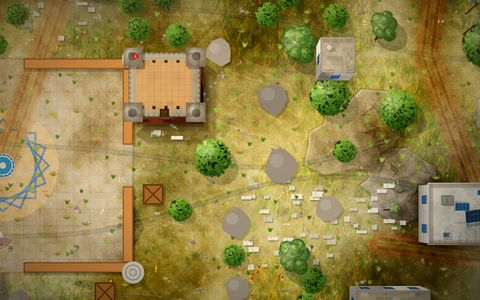
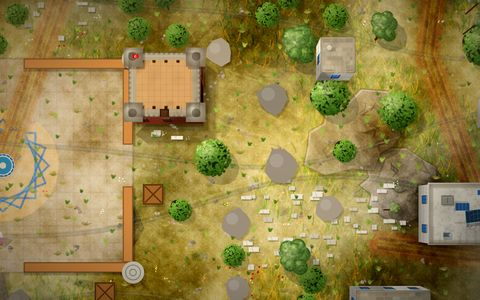
v2.34: radio avec le prénom du joueur, panneaux des lieux, arrivée dans un lieu, dunes du Sahara, image plus claire
Claude-Session: https://claude.ai/code/session_0193LcvPZAK4DPuHintVfdCC

diff --git a/index.html b/index.html
@@ -1056,7 +1056,7 @@ body.sf3d-battle #sf3dBattle{display:block}body.sf3d-battle #game{visibility:hid
       <p>Taille, opacité et hauteur s'appliquent aux boutons Tirer, Pistolet et actions. La sensibilité règle la course du pouce de visée.</p>
       <div class="row"><button id="qBtn" class="ghost">Qualité : Haute</button><button id="diffBtn" class="ghost">Difficulté : Normale</button><button id="vibBtn" class="ghost">Vibration : activée</button><button id="leftyBtn" class="ghost">Gaucher : non</button><button id="aimBtn" class="ghost">Ligne de visée : courte</button><button id="miniBtn" class="ghost">Mini-carte : normale</button><button id="camBtn" class="ghost">Caméra : cinématique</button><button id="afBtn" class="ghost">Tir auto : non</button><button id="numBtn" class="ghost">Chiffres de dégâts : oui</button><button id="bloodBtn" class="ghost">Sang : oui</button><button id="fpsBtn" class="ghost">Compteur i/s : non</button><button id="oReset" class="ghost">Réinitialiser</button><button id="oTuto" class="ghost">Revoir le tutoriel</button></div>
     </div>
-    <p id="sfVer" style="margin:0;text-align:center;font-size:11px;letter-spacing:.14em;opacity:.55">SEDDIK FIRE · 2.33</p>
+    <p id="sfVer" style="margin:0;text-align:center;font-size:11px;letter-spacing:.14em;opacity:.55">SEDDIK FIRE · 2.34</p>
     <button id="oClose" class="cta">Terminé</button>
   </div>
 </section>
@@ -1741,7 +1741,7 @@ const PLANS={
  gafsa:{cst:[3720,0,1,0,0,1,0,0,1,0],wat:[],lake:[2600,1950,70],
   p:[[2500,1800],[1350,1400],[500,700],[700,1700],[900,2400],[1500,2600],[3000,2500],[2900,700]],
   f:[['medina',2450,1750,480,380,'stone'],['oasis',2700,2050,260],['mine',1350,1400],['mine',500,700],['mine',700,1750],['mine',900,2400],['mountain',1500,2650,360],['oasis',3000,2500,240],['village',2900,700,6],['base',2000,800]]}};
-function planInit(P){MAP.cst=P.cst;MAP.wat=P.wat||[];MAP.isl=P.isl||[];if(P.lake){LAKE.x=P.lake[0];LAKE.y=P.lake[1];LAKE.r=P.lake[2]}LX.mc=[-2000,-2000];LX.heli=[-2000,-2000];PIER.y=-900;PIER.x=-900}
+function planInit(P){MAP.dunes=[];MAP.cst=P.cst;MAP.wat=P.wat||[];MAP.isl=P.isl||[];if(P.lake){LAKE.x=P.lake[0];LAKE.y=P.lake[1];LAKE.r=P.lake[2]}LX.mc=[-2000,-2000];LX.heli=[-2000,-2000];PIER.y=-900;PIER.x=-900}
 function waterAt(x,y){const M=MAP;if(M&&M.isl)for(const e of M.isl)if(((x-e.x)/e.rx)**2+((y-e.y)/e.ry)**2<1)return false;if(M&&M.wat)for(const e of M.wat)if(((x-e.x)/e.rx)**2+((y-e.y)/e.ry)**2<1)return true;return false}
 function buildPlan(P){planInit(P);PAVED.length=0;const grz=[];
   const X=(x,y)=>x<0?coastX(y)+x:x;const rnd=(a,b)=>sr(a,b);
@@ -1784,7 +1784,7 @@ function buildPlan(P){planInit(P);PAVED.length=0;const grz=[];
    ruins(x,y,kind){x=X(x,y);PAVED.push({x:x-170,y:y-130,w:340,h:260,c:kind==='tomb'?'#e9e4d8':'#cbbd9c',g:30});for(let i=0;i<5;i++)for(let j=0;j<2;j++){const px=x-130+i*65,py=y-70+j*140;if(SR()<.25)continue;addRock(px,py,kind==='tomb'?9:rnd(10,15))}occ.push({x,y,r:150})},
    mine(x,y){x=X(x,y);[x,y]=spot(x,y,540,420);PAVED.push({x:x-260,y:y-200,w:520,h:400,c:'#8f8c85',g:60});bld(x-240,y-180,260,170,'port',[['s',.5],['e',.5]],{label:'PHOSPHATE'});bld(x+40,y-180,180,130,'port',[['s',.5]],{label:'CPG'});
      for(let i=0;i<5;i++)addRock(x-200+i*95,y+110,rnd(28,40));addSolid({t:'c',x:x+160,y:y+60,r:40,k:'silo'})},
-   dunes(x,y,r){occ.push({x,y,r})},
+   dunes(x,y,r){occ.push({x,y,r});MAP.dunes.push([x,y,r])},
    salt(x,y){for(let i=0;i<3;i++)for(let j=0;j<2;j++)MAP.wat.push({x:x-220+i*220,y:y-100+j*200,rx:95,ry:80,col:SALT,sh:SALTSH})},
    light(x,y){x=X(x,y);bld(x-60,y-60,120,120,'med',[['w',.5],['s',.5]],{lh:1})}};
   // ports d'abord (la jetée), puis le reste
@@ -1807,7 +1807,15 @@ function buildPlan(P){planInit(P);PAVED.length=0;const grz=[];
   place(45,()=>24,(x,y)=>crate(x-22,y-22),()=>[sr(100,WS-100),sr(100,WS-100)]);
   finishWorld()}
 // dessin des plans d'eau et des îlots dans le sol
-function drawWaterX(c){const M=MAP;if(!M.wat&&!M.isl)return;
+function drawWaterX(c){const M=MAP;
+  if(M.dunes&&M.dunes.length){const lit=shadeHex(M.base,.2),lit2=shadeHex(M.base,.32),slip=shadeHex(M.base,-.2),R=mulberry32(5150);
+    for(const [dx,dy,dr] of M.dunes){const n=Math.round(dr*dr/7000);for(let i=0;i<n;i++){const a=R()*TAU,d=Math.sqrt(R())*dr,x=dx+Math.cos(a)*d,y=dy+Math.sin(a)*d,sz=60+R()*110,rot=(R()-.5)*.5;c.save();c.translate(x,y);c.rotate(rot);
+      c.fillStyle='rgba(60,35,10,.16)';c.beginPath();c.ellipse(sz*.28,sz*.08,sz*.62,sz*.42,0,0,TAU);c.fill();
+      const g=c.createLinearGradient(-sz*.6,-sz*.4,sz*.4,sz*.3);g.addColorStop(0,lit2);g.addColorStop(.6,lit);g.addColorStop(1,M.base);c.fillStyle=g;c.beginPath();c.moveTo(-sz*.6,0);c.quadraticCurveTo(-sz*.3,-sz*.55,sz*.35,-sz*.48);c.quadraticCurveTo(sz*.05,-sz*.15,sz*.12,0);c.quadraticCurveTo(sz*.05,sz*.15,sz*.35,sz*.48);c.quadraticCurveTo(-sz*.3,sz*.55,-sz*.6,0);c.fill();
+      c.fillStyle=slip;c.beginPath();c.moveTo(sz*.35,-sz*.48);c.quadraticCurveTo(sz*.05,-sz*.15,sz*.12,0);c.quadraticCurveTo(sz*.05,sz*.15,sz*.35,sz*.48);c.quadraticCurveTo(sz*.24,0,sz*.35,-sz*.48);c.fill();
+      c.strokeStyle='rgba(255,245,220,.55)';c.lineWidth=2;c.beginPath();c.moveTo(sz*.35,-sz*.48);c.quadraticCurveTo(sz*.05,-sz*.15,sz*.12,0);c.quadraticCurveTo(sz*.05,sz*.15,sz*.35,sz*.48);c.stroke();
+      c.strokeStyle='rgba(120,80,40,.18)';c.lineWidth=1.2;for(let k=-2;k<=2;k++){c.beginPath();c.moveTo(-sz*.45,k*sz*.12);c.quadraticCurveTo(-sz*.2,k*sz*.12-6,0,k*sz*.1);c.stroke()}c.restore()}}}
+  if(!M.wat&&!M.isl)return;
   for(const e of M.wat||[]){const col=e.col||M.sea||['#3fcfc8','#1586a6','#0e5f86'];c.save();c.beginPath();c.ellipse(e.x,e.y,e.rx,e.ry,0,0,TAU);c.lineWidth=Math.min(60,e.rx*.3);c.strokeStyle=e.sh||M.shore||'#e6d3a6';c.stroke();
     const g=c.createRadialGradient(e.x,e.y,Math.min(e.rx,e.ry)*.1,e.x,e.y,Math.max(e.rx,e.ry));g.addColorStop(0,col[2]);g.addColorStop(.55,col[1]);g.addColorStop(1,col[0]);c.fillStyle=g;c.fill();
     if(e.col===SALT){c.clip();c.strokeStyle='rgba(255,255,255,.35)';c.lineWidth=2;const R=mulberry32((e.x*7+e.y)|0);for(let i=0;i<e.rx*e.ry/2500;i++){const x=e.x+(R()-.5)*e.rx*2,y=e.y+(R()-.5)*e.ry*2;c.beginPath();c.moveTo(x,y);c.lineTo(x+R()*30-15,y+R()*30-15);c.stroke()}}
@@ -2171,7 +2179,7 @@ function relief(c){if(MAP.gen==='city')return;const id=MAP.st,N=id==='sahara'?28
   c.clip(land,'evenodd');c.globalCompositeOperation='soft-light';c.globalAlpha=id==='sahara'?.75:.9;c.imageSmoothingEnabled=true;c.drawImage(cv2,0,0,WS,WS);c.restore()}
 /* ===== cache du sol (IndexedDB) : la carte n'est dessinée qu'une fois par appareil ===== */
 const GC={m:new Map(),h:''};
-function gcHash(){if(GC.h)return GC.h;let h=2166136261;try{const src=JSON.stringify(PLANS)+buildPlan.toString()+drawWaterX.toString()+buildGround.toString()+genWorld.toString()+(typeof decoCity==='function'?decoCity.toString():'')+(typeof gradeCanvas==='function'?gradeCanvas.toString():'');for(let i=0;i<src.length;i++){h^=src.charCodeAt(i);h=Math.imul(h,16777619)}}catch(e){}return GC.h=(h>>>0).toString(36)}
+function gcHash(){if(GC.h)return GC.h;let h=2166136261;try{const src='dunes1'+JSON.stringify(PLANS)+buildPlan.toString()+drawWaterX.toString()+buildGround.toString()+genWorld.toString()+(typeof decoCity==='function'?decoCity.toString():'')+(typeof gradeCanvas==='function'?gradeCanvas.toString():'');for(let i=0;i<src.length;i++){h^=src.charCodeAt(i);h=Math.imul(h,16777619)}}catch(e){}return GC.h=(h>>>0).toString(36)}
 function gKey(mid){const gs=stats.quality==='eco'?.55:stats.quality==='mid'?.72:.8;return mid+'|'+gs+'|'+gcHash()}
 function gcDB(){return new Promise((res,rej)=>{try{const r=indexedDB.open('sf-ground',1);r.onupgradeneeded=()=>r.result.createObjectStore('g');r.onsuccess=()=>res(r.result);r.onerror=()=>rej(r.error)}catch(e){rej(e)}})}
 async function gcBundled(k){if(!adsNative())return null;try{const f=k.replace(/\|/g,'_');const jp=fetch('ground/'+f+'.json').then(j=>j.ok?j.json():[]).catch(()=>[]);const r=await fetch('ground/'+f+'.jpg');if(!r.ok)return null;const blob=await r.blob();const lamps=await jp;return {blob,lamps}}catch(e){return null}}
@@ -3313,15 +3321,15 @@ function updateCam(dt){const bz=baseZoom(),CM=stats.camMode||'cine',CINE=CM!=='s
   {const dead=CINE&&!player.alive&&game.mode==='play';if(dead!==!!cam.bars){cam.bars=dead;const el=$('#sfCine');if(el){if(dead){const k=player.killer;el.lastChild.textContent=k&&k!==player?'Éliminé par '+k.name:'Éliminé'}el.classList.toggle('on',dead)}}}
   const kd=Math.exp(-dt*13);cam.kx=(cam.kx||0)*kd;cam.ky=(cam.ky||0)*kd;cam.zp=(cam.zp||0)*Math.exp(-dt*7)}
 function drawWeather(){const wx=MAP.wx;
-  if(wx==='sand'){ctx.fillStyle='rgba(214,172,104,.11)';ctx.fillRect(0,0,VW,VH);
-    const haze=ctx.createLinearGradient(0,VH*.18,0,VH);haze.addColorStop(0,'rgba(229,190,126,0)');haze.addColorStop(.55,'rgba(220,177,111,.055)');haze.addColorStop(1,'rgba(190,143,82,.13)');ctx.fillStyle=haze;ctx.fillRect(0,0,VW,VH);
+  if(wx==='sand'){ctx.fillStyle='rgba(214,172,104,.045)';ctx.fillRect(0,0,VW,VH);
+    const haze=ctx.createLinearGradient(0,VH*.18,0,VH);haze.addColorStop(0,'rgba(229,190,126,0)');haze.addColorStop(.55,'rgba(220,177,111,.02)');haze.addColorStop(1,'rgba(190,143,82,.06)');ctx.fillStyle=haze;ctx.fillRect(0,0,VW,VH);
     // Long wind-driven sand streaks at several depths.
-    ctx.strokeStyle='rgba(240,210,150,.34)';ctx.lineWidth=2;ctx.beginPath();for(let i=0;i<46;i++){const k=i*97.13,y=((k*3.7)%VH),x=((k*11.3+TIME*(380+(i%5)*60))%(VW+300))-150;ctx.moveTo(x,y+(i%7)*3);ctx.lineTo(x+70+(i%4)*20,y+(i%7)*3-4)}ctx.stroke();
-    ctx.save();ctx.globalCompositeOperation='screen';for(let i=0;i<74;i++){const k=i*41.73,depth=.35+(i%7)*.12,speed=95+depth*250,x=((k*13.7+TIME*speed)%(VW+90))-45,y=(k*7.91)%VH,r=.45+depth*1.05;ctx.globalAlpha=.08+depth*.16;ctx.fillStyle=i%4===0?'#fff0c8':'#d9ad70';ctx.beginPath();ctx.ellipse(x,y,r*3.8,r,0,-.18,Math.PI*1.82);ctx.fill()}ctx.restore();
-    ctx.fillStyle='rgba(238,204,151,.035)';ctx.fillRect(0,0,VW,VH)}
-  else if(wx==='fog'){ctx.fillStyle='rgba(205,214,210,.08)';ctx.fillRect(0,0,VW,VH);
-    const g=ctx.createRadialGradient(VW/2,VH/2,Math.min(VW,VH)*.3,VW/2,VH/2,Math.max(VW,VH)*.75);g.addColorStop(0,'rgba(210,218,214,0)');g.addColorStop(1,'rgba(200,210,206,.24)');ctx.fillStyle=g;ctx.fillRect(0,0,VW,VH);
-    ctx.strokeStyle='rgba(215,230,240,.28)';ctx.lineWidth=1.4;ctx.beginPath();for(let i=0;i<60;i++){const k=i*53.7,x=(k*7.9)%VW,y=((k*13.1+TIME*620)%(VH+80))-40;ctx.moveTo(x,y);ctx.lineTo(x-5,y+16)}ctx.stroke()}
+    ctx.strokeStyle='rgba(240,210,150,.18)';ctx.lineWidth=1.6;ctx.beginPath();for(let i=0;i<24;i++){const k=i*97.13,y=((k*3.7)%VH),x=((k*11.3+TIME*(380+(i%5)*60))%(VW+300))-150;ctx.moveTo(x,y+(i%7)*3);ctx.lineTo(x+70+(i%4)*20,y+(i%7)*3-4)}ctx.stroke();
+    ctx.save();ctx.globalCompositeOperation='screen';for(let i=0;i<40;i++){const k=i*41.73,depth=.35+(i%7)*.12,speed=95+depth*250,x=((k*13.7+TIME*speed)%(VW+90))-45,y=(k*7.91)%VH,r=.45+depth*1.05;ctx.globalAlpha=.05+depth*.09;ctx.fillStyle=i%4===0?'#fff0c8':'#d9ad70';ctx.beginPath();ctx.ellipse(x,y,r*3.8,r,0,-.18,Math.PI*1.82);ctx.fill()}ctx.restore();
+    }
+  else if(wx==='fog'){ctx.fillStyle='rgba(205,214,210,.035)';ctx.fillRect(0,0,VW,VH);
+    const g=ctx.createRadialGradient(VW/2,VH/2,Math.min(VW,VH)*.3,VW/2,VH/2,Math.max(VW,VH)*.75);g.addColorStop(0,'rgba(210,218,214,0)');g.addColorStop(1,'rgba(200,210,206,.15)');ctx.fillStyle=g;ctx.fillRect(0,0,VW,VH);
+    ctx.strokeStyle='rgba(215,230,240,.14)';ctx.lineWidth=1.2;ctx.beginPath();for(let i=0;i<34;i++){const k=i*53.7,x=(k*7.9)%VW,y=((k*13.1+TIME*620)%(VH+80))-40;ctx.moveTo(x,y);ctx.lineTo(x-5,y+16)}ctx.stroke()}
   else if(wx==='leaves'){for(let i=0;i<22;i++){const k=i*71.3,x=((k*5.1+TIME*(30+(i%5)*8))%(VW+60))-30,y=((k*9.7+TIME*(42+(i%4)*9))%(VH+60))-30,r=TIME*2+i;ctx.save();ctx.translate(x,y);ctx.rotate(r);ctx.scale(1,.45+.35*Math.sin(TIME*3+i));ctx.fillStyle=['#c9862f','#a9622a','#6f8a3a','#d9a441'][i%4];ctx.beginPath();ctx.ellipse(0,0,5,2.6,0,0,TAU);ctx.fill();ctx.restore()}}
   else if(wx==='breeze'){const g=ctx.createLinearGradient(0,0,VW,VH);g.addColorStop(0,'rgba(255,236,190,.07)');g.addColorStop(1,'rgba(120,200,230,.07)');ctx.fillStyle=g;ctx.fillRect(0,0,VW,VH);
     ctx.save();ctx.globalAlpha=.2;ctx.strokeStyle='rgba(225,245,235,.48)';ctx.lineWidth=1;ctx.beginPath();for(let i=0;i<28;i++){const k=i*83.17,x=((k+TIME*(42+i%4*11))%(VW+160))-80,y=(k*5.3)%VH;ctx.moveTo(x,y);ctx.quadraticCurveTo(x+22,y-2,x+52,y+1)}ctx.stroke();ctx.restore()}}
@@ -3350,7 +3358,7 @@ function drawDetailCached(x0,y0,x1,y1,z){const k=MAP.id+'|'+Q.lv+'|'+LOWD+'|'+wa
   for(let cy=cy0;cy<=cy1;cy++)for(let cx=cx0;cx<=cx1;cx++){const id=cx+','+cy;let t=DC.m.get(id);
     if(t&&t.sc<sc&&budget>0)t=null;
     if(!t){if(budget<=0)continue;budget--;const c=document.createElement('canvas'),px=Math.ceil(S*sc);c.width=c.height=px;const g=c.getContext('2d'),save=ctx,X=cx*S,Y=cy*S;
-      const qh=Q.hi;ctx=g;Q.hi=true;try{g.setTransform(sc,0,0,sc,-X*sc,-Y*sc);g.beginPath();g.rect(X,Y,S,S);g.clip();mapTint(X,Y,S);if(MAP.charfia)drawCharfia(X-80,Y-80,X+S+80,Y+S+80);drawGroundMacro(X,Y,S);drawBiome(X,Y,S);drawContactAO(X-60,Y-60,X+S+60,Y+S+60);draw2DSurfaceDetail(X-70,Y-70,X+S+70,Y+S+70);drawGroundDecor(X-40,Y-40,X+S+40,Y+S+40);drawLandmarks(X,Y,X+S,Y+S);drawWorldMicroDetail(X-70,Y-70,X+S+70,Y+S+70);drawTunisianRelief(X-70,Y-70,X+S+70,Y+S+70)}catch(e){console.warn(e)}finally{ctx=save;Q.hi=qh}
+      const qh=Q.hi;ctx=g;Q.hi=true;try{g.setTransform(sc,0,0,sc,-X*sc,-Y*sc);g.beginPath();g.rect(X,Y,S,S);g.clip();mapTint(X,Y,S);if(MAP.charfia)drawCharfia(X-80,Y-80,X+S+80,Y+S+80);drawGroundMacro(X,Y,S);drawBiome(X,Y,S);drawPoiSigns(X,Y,S);drawContactAO(X-60,Y-60,X+S+60,Y+S+60);draw2DSurfaceDetail(X-70,Y-70,X+S+70,Y+S+70);drawGroundDecor(X-40,Y-40,X+S+40,Y+S+40);drawLandmarks(X,Y,X+S,Y+S);drawWorldMicroDetail(X-70,Y-70,X+S+70,Y+S+70);drawTunisianRelief(X-70,Y-70,X+S+70,Y+S+70)}catch(e){console.warn(e)}finally{ctx=save;Q.hi=qh}
       t={c,sc};DC.m.set(id,t);if(DC.m.size>40)DC.m.delete(DC.m.keys().next().value)}
     else{DC.m.delete(id);DC.m.set(id,t)}
     ctx.drawImage(t.c,cx*S,cy*S,S,S)}}
@@ -3429,6 +3437,11 @@ const GRD={sahara:['255,190,110','95,45,10','255,140,60',1.15],tozeur:['255,200,
  cote:['170,215,240','10,35,55','240,190,140',1],seddik:['170,215,235','10,35,50','240,190,140',1]};
 function vnz(x,y,s,k){x/=s;y/=s;const xi=Math.floor(x),yi=Math.floor(y),fx=x-xi,fy=y-yi,h=(a,b)=>{let n=(Math.imul(a,374761393)+Math.imul(b,668265263)+Math.imul(k,1442695041))|0;n=Math.imul(n^(n>>>13),1274126177);return((n^(n>>>16))>>>0)/4294967295},u=fx*fx*(3-2*fx),v=fy*fy*(3-2*fy);
   return (h(xi,yi)*(1-u)+h(xi+1,yi)*u)*(1-v)+(h(xi,yi+1)*(1-u)+h(xi+1,yi+1)*u)*v}
+function poiSignPos(p){if(p._sg!==undefined&&p._sgM===MAP.id)return p._sg;p._sgM=MAP.id;p._sg=null;for(let t=0;t<24;t++){const a=t*1.7+.6,d=150+t*14,x=p.x+Math.cos(a)*d,y=p.y+Math.sin(a)*d;if(x<150||y<150||x>WS-150||y>WS-150)continue;let ok=!isWater(x,y)&&!isWater(x+70,y)&&!bldAt(x,y)&&!bldAt(x+70,y-30)&&!bldAt(x-70,y-30);if(ok)for(const c of solids)if(c.t==='c'&&dd2(x,y,c.x,c.y)<(c.r+40)**2){ok=false;break}if(ok){p._sg=[x,y];break}}return p._sg}
+function drawPoiSigns(X,Y,S){if(game.mode==='lobby')return;const c=ctx;for(const p of POIS){if(!p.n)continue;const q=poiSignPos(p);if(!q)continue;const [x,y]=q;if(x<X-160||x>X+S+160||y<Y-80||y>Y+S+80)continue;
+  c.save();c.font='900 15px system-ui,sans-serif';const tw=Math.min(220,c.measureText(p.n).width),w=tw+26,h=30;c.fillStyle='rgba(0,0,0,.28)';c.fillRect(x-w/2+5,y-h-22+6,w,h);
+  c.fillStyle='#55504a';c.fillRect(x-w/2+8,y-22,4,22);c.fillRect(x+w/2-12,y-22,4,22);c.fillStyle='rgba(0,0,0,.25)';c.beginPath();c.ellipse(x-w/2+10,y,4,2,0,0,TAU);c.ellipse(x+w/2-10,y,4,2,0,0,TAU);c.fill();
+  c.fillStyle='#1d5fa8';rrect(c,x-w/2,y-h-22,w,h,4);c.fill();c.strokeStyle='#ffffff';c.lineWidth=2;rrect(c,x-w/2+3,y-h-19,w-6,h-6,3);c.stroke();c.fillStyle='#ffffff';c.textAlign='center';c.textBaseline='middle';c.fillText(p.n,x,y-h/2-22,tw);c.restore()}}
 function drawBiome(X,Y,S){const B=BIO[MAP.id]||BIO[MAP.st]||{};if(!Object.keys(B).length)return;const c=ctx,K=(MAP.seed|0)%9973,
   R=(x,y,k)=>{let n=(Math.imul(x|0,374761393)+Math.imul(y|0,668265263)+Math.imul(k+K,1442695041))|0;n=Math.imul(n^(n>>>13),1274126177);return((n^(n>>>16))>>>0)/4294967295};
   const ok=(x,y,r)=>x>40&&y>40&&x<WS-40&&y<WS-40&&!isWater(x,y)&&!bldAt(x,y)&&!nearRoad(x,y,r||22);
@@ -3467,10 +3480,10 @@ function drawGrade(){if(LOWD)return;const st=MAP.st,desert=MAP.gen==='desert'||s
   const key=VW+'x'+VH+'|'+MAP.id+'|'+MAP.gen+'|'+night+'|'+sk,GD=GRD[MAP.id]||GRD[st];
   if(!GRADE||GRADE.k!==key){const w=Math.max(64,Math.round(VW/3)),h=Math.max(64,Math.round(VH/3)),c=GRADE&&GRADE.c||document.createElement('canvas');c.width=w;c.height=h;const g=c.getContext('2d');g.clearRect(0,0,w,h);
     const top=GD?GD[0]:desert?'255,196,120':forest?'150,200,140':city?'170,190,210':'160,210,235',bot=GD?GD[1]:desert?'90,45,10':forest?'10,30,15':city?'15,22,35':'10,35,50',a=(night?.5:1)*(GD?GD[3]:1);
-    let gr=g.createLinearGradient(0,0,0,h);gr.addColorStop(0,'rgba('+top+','+(.10*a).toFixed(3)+')');gr.addColorStop(.35,'rgba('+top+',0)');gr.addColorStop(.7,'rgba('+bot+',0)');gr.addColorStop(1,'rgba('+bot+','+(.16*a).toFixed(3)+')');g.fillStyle=gr;g.fillRect(0,0,w,h);
+    let gr=g.createLinearGradient(0,0,0,h);gr.addColorStop(0,'rgba('+top+','+(.07*a).toFixed(3)+')');gr.addColorStop(.3,'rgba('+top+',0)');gr.addColorStop(.78,'rgba('+bot+',0)');gr.addColorStop(1,'rgba('+bot+','+(.08*a).toFixed(3)+')');g.fillStyle=gr;g.fillRect(0,0,w,h);
     if(SUNK>.15&&!night){gr=g.createLinearGradient(0,0,w,h);gr.addColorStop(0,'rgba(255,150,70,'+(.1*SUNK).toFixed(3)+')');gr.addColorStop(.6,'rgba(255,150,70,0)');g.fillStyle=gr;g.fillRect(0,0,w,h)}
     if(GD&&!night){gr=g.createLinearGradient(w,0,0,h);gr.addColorStop(0,'rgba('+GD[2]+','+(.09*GD[3]).toFixed(3)+')');gr.addColorStop(.55,'rgba('+GD[2]+',0)');g.fillStyle=gr;g.fillRect(0,0,w,h)}
-    gr=g.createRadialGradient(w/2,h/2,Math.min(w,h)*.42,w/2,h/2,Math.hypot(w,h)*.62);gr.addColorStop(0,'rgba(0,0,0,0)');gr.addColorStop(1,'rgba(0,0,0,.3)');g.fillStyle=gr;g.fillRect(0,0,w,h);
+    gr=g.createRadialGradient(w/2,h/2,Math.min(w,h)*.42,w/2,h/2,Math.hypot(w,h)*.62);gr.addColorStop(0,'rgba(0,0,0,0)');gr.addColorStop(1,'rgba(0,0,0,.16)');g.fillStyle=gr;g.fillRect(0,0,w,h);
     GRADE={c,k:key}}
   ctx.setTransform(1,0,0,1,0,0);ctx.drawImage(GRADE.c,0,0,ctx.canvas.width,ctx.canvas.height);ctx.setTransform(DPR,0,0,DPR,0,0)}
 /* ===== v2.28 — objets d'aventure : trésors propres à chaque carte, gourmandises tunisiennes et coffres ===== */
@@ -4439,7 +4452,7 @@ function mstyle(){return MSTY[MAP.id]||MSTY[MAP.st]||MSTY.seddik}
 const MONK={fort:1,kasbah:1,ribat:1,light:1,clock:1,amphi:1,gate:1,bmin:1,trog:1};
 Object.assign(TUNTREE,{dpalm:1,cork:1,ficus:1,apine:1,cypress:1,jasmin:1});
 function wpick(R,o){let s=0;for(const k in o)s+=o[k];let r=R()*s;for(const k in o){r-=o[k];if(r<=0)return k}return Object.keys(o)[0]}
-function mapTint(X,Y,S){const t=mstyle().tint;if(!t)return;ctx.fillStyle=t.replace(/,(\.\d+)\)$/,(m,a)=>','+Math.min(.16,parseFloat(a)*1.8).toFixed(3)+')');ctx.fillRect(X,Y,S,S)}
+function mapTint(X,Y,S){const t=mstyle().tint;if(!t)return;ctx.fillStyle=t.replace(/,(\.\d+)\)$/,(m,a)=>','+Math.min(.08,parseFloat(a)*1.05).toFixed(3)+')');ctx.fillRect(X,Y,S,S)}
 // appelé par tunisify : styles des maisons, essences, vergers et monuments
 function mapSpecific(R,rr,rectFree,house,tree){const M=mstyle();
   for(const b of blds)if(b.tun||b.tunRoof)b.hs=M.h2&&R()<M.p2?M.h2:M.h;
@@ -5680,7 +5693,8 @@ tapOn(H.pick,humanPick);
 tapOn(H.reload,()=>player&&startReload(player));
 tapOn(H.jump,()=>{if(player&&player.inPlane)jump(player)});
 tapOn(mini,toggleMap);mini.addEventListener('keydown',ev=>{if(ev.key==='Enter'||ev.key===' ')toggleMap()});
-let WAYPT=null,LDT=0;
+let WAYPT=null,LDT=0,POIHERE=-1,POIT=0;
+function poiArrive(){if(game.mode!=='play'||!player||!player.alive||player.inPlane||matchT<POIT)return;POIT=matchT+.6;let bi=-1,bd=1e12;POIS.forEach((p,i)=>{const d=dd2(p.x,p.y,player.x,player.y);if(d<bd){bd=d;bi=i}});if(bd>430*430){if(bd>700*700)POIHERE=-1;return}if(bi!==POIHERE){POIHERE=bi;const p=POIS[bi];sysFeed('📍 '+p.n+' · '+MAP.n,3.6,'tip')}}
 function setWaypoint(ev){const r=bigcv.getBoundingClientRect(),cx=ev.clientX,cy=ev.clientY;if(cx<r.left||cx>r.right||cy<r.top||cy>r.bottom)return false;const x=(cx-r.left)/r.width*WS,y=(cy-r.top)/r.height*WS;
   if(WAYPT&&Math.hypot(WAYPT.x-x,WAYPT.y-y)<WS*.04){WAYPT=null;sysFeed('📍 '+trS('Point de passage retiré'),1.6,'tip')}else{WAYPT={x,y};sysFeed('📍 '+trS('Point de passage posé'),1.8,'tip');buzz(10)}return true}
 let BMD=false;$('#bigmap').addEventListener('pointerdown',()=>{BMD=true});$('#bigmap').addEventListener('click',ev=>{if(bigOpen&&!BMD&&ev.detail===0)toggleMap()});
@@ -5897,7 +5911,7 @@ function frame(now){if((FR30||stats.fr30)&&game.mode==='play'){FRC^=1;if(FRC){re
   // v113: le personnage du lobby est dessiné indépendamment du rendu de la scène.
   // Une erreur dans render()/la simulation ne doit plus laisser la vitrine vide.
   if(!lobbyEl.hidden){try{drawPreview()}catch(previewErr){console.error('Aperçu du soldat:',previewErr)}}
-  try{tutoTick(dt);radioTick(dt);LDT=dt;try{trackSteps(dt);updBirds(dt);updDevils(dt)}catch(_){}adaptRes(dt);if(game.mode==='play'){if(HSTOP>0)HSTOP-=dt;else update(dt)}else if(game.mode==='lobby')updateLobby(dt);
+  try{tutoTick(dt);radioTick(dt);LDT=dt;try{trackSteps(dt);updBirds(dt);updDevils(dt);poiArrive()}catch(_){}adaptRes(dt);if(game.mode==='play'){if(HSTOP>0)HSTOP-=dt;else update(dt)}else if(game.mode==='lobby')updateLobby(dt);
     render();
     if(game.mode==='end')drawEndHero();
     if(game.mode==='play'&&player){drawMini();updateHUD();uiFire();if(bigOpen)drawMapView(bctx,bigcv.width,WS/2,WS/2,WS,true)}}catch(err){console.error(err)}
@@ -5967,12 +5981,13 @@ tr:{who:'Karargâh',land:'Karargâh konuşuyor. İniş onaylandı. Hemen bir sil
 ru:{who:'Штаб',land:'Говорит штаб. Высадка подтверждена. Быстро найди оружие.',weapon:'У тебя только пистолет. Обыщи здания, найди основное оружие.',zone:'Зона сужается. Иди в круг, направление — {d}.',zoneSoon:'Круг скоро сузится. Двигайся на {d}.',heal:'Ты ранен. Укройся и подлечись.',cover:'Здоровье на нуле, аптечек нет. Избегай боя.',contact:'Контакт! Враг на {d}, {m} метров.',fire:'По тебе стреляют с направления {d}!',kill:'Цель устранена. Отличная работа.',streak:'Серия из {n} убийств! Так держать.',reload:'Магазин пуст, перезаряжайся!',top10:'Осталось десять выживших. Будь начеку.',top5:'Топ-5. Каждый патрон на счету.',duel:'Финальная дуэль. Выживет только один. Мы на тебя рассчитываем.',vest:'Бронежилет разбит. Найди другой.',drop:'Сброс груза на подходе. Хорошее снаряжение, но много врагов.',nade:'Граната! Отходи!',mate:'Союзник ранен.',win:'Победа! Штаб гордится тобой.',dirs:['север','северо-восток','восток','юго-восток','юг','юго-запад','запад','северо-запад']}};
 const RADIO_VOICE={fr:'fr-FR',en:'en-US',ar:'ar-SA',es:'es-ES',de:'de-DE',it:'it-IT',pt:'pt-BR',tr:'tr-TR',ru:'ru-RU'};
 const RAD={cd:{},last:-9,landed:false,land:0,kills:0,hp:100,vest:0,al:99,flag:{},el:null,hT:0,mates:0};
-function radioReset(){RAD.cd={};RAD.last=-9;RAD.landed=false;RAD.land=0;RAD.kills=0;RAD.hp=100;RAD.vest=0;RAD.al=99;RAD.flag={};RAD.hT=0;RAD.mates=0;if(RAD.el)RAD.el.classList.remove('on');try{if(window.speechSynthesis)speechSynthesis.cancel()}catch(e){}}
+function radioReset(){POIHERE=-1;RAD.nmN=0;RAD.cd={};RAD.last=-9;RAD.landed=false;RAD.land=0;RAD.kills=0;RAD.hp=100;RAD.vest=0;RAD.al=99;RAD.flag={};RAD.hT=0;RAD.mates=0;if(RAD.el)RAD.el.classList.remove('on');try{if(window.speechSynthesis)speechSynthesis.cancel()}catch(e){}}
 function radioDir(dx,dy){const a=Math.atan2(dx,-dy);return Math.round(((a%TAU)+TAU)%TAU/(TAU/8))%8}
 function radioSay(k,vars,cd,prio){const mode=stats.radio||'voice';if(mode==='off'||(game.mode!=='play'&&k!=='win'))return false;const now=matchT;
   if((RAD.cd[k]||-99)>now)return false;if(!prio&&now-RAD.last<4.5)return false;
   const T=RADIO_TXT[LANG]||RADIO_TXT.en;let s=T[k];if(!s)return false;vars=vars||{};
   if(vars.d!=null)s=s.replace('{d}',T.dirs[vars.d]);if(vars.m!=null)s=s.replace('{m}',vars.m);if(vars.n!=null)s=s.replace('{n}',vars.n);
+  {const nm=String(stats.name||'').trim();if(nm&&nm.length<=18&&!/^(joueur|player|soldat)\b/i.test(nm)&&k!=='who'){RAD.nmN=(RAD.nmN||0)+1;if(prio||RAD.nmN%2===1||k==='land'||k==='win')s=LANG==='ar'?nm+'، '+s:nm+', '+(/^(de)$/.test(LANG)?s:s.charAt(0).toLowerCase()+s.slice(1))}}
   RAD.cd[k]=now+(cd||20);RAD.last=now;
   if(!RAD.el){RAD.el=document.createElement('div');RAD.el.id='sfRadio';RAD.el.setAttribute('role','status');RAD.el.setAttribute('aria-live','polite');document.body.appendChild(RAD.el)}
   RAD.el.classList.remove('on');if(k!=='win'&&game.mode==='play')sysFeed('📻 '+T.who+' : '+s,Math.max(3.4,s.length*.07),'radio');RAD.hT=Math.max(3.2,s.length*.065);

diff --git a/sw.js b/sw.js
@@ -1,5 +1,5 @@
 /* Seddik Fire — service worker : le jeu se lance hors ligne après la première ouverture. */
-const VERSION = 'seddik-fire-v233';
+const VERSION = 'seddik-fire-v234';
 const FONTS = 'seddik-fire-fonts';
 const LEGACY_CACHES = ['super-joud-v10'];
 const CORE = [

diff --git a/README.md b/README.md
@@ -1,5 +1,12 @@
 # Seddik Fire
 
+## Nouveautés 2.34 — Chaque carte se reconnaît en partie, la radio t'appelle par ton nom
+- **La radio de l'équipe t'appelle par ton prénom** : « Wassim, la zone se referme… », dans toutes les langues, à l'écrit et à la voix (une fois sur deux pour les conseils courants, toujours pour les messages importants).
+- **Panneaux d'entrée bleu et blanc** devant chaque lieu de la carte (Médina de Sousse, Ksar Ouled Soltane, Chott el-Jérid…), posés au sol.
+- **Arrivée dans un lieu** : le nom du lieu et de la carte s'affiche sur le côté (« 📍 Médina de Sousse · Sousse & Monastir »).
+- **Vraies dunes du Sahara** (barkhanes avec face éclairée, face d'avalanche ombrée et rides) : Grand Erg, Douz, Ong Jemel, Tataouine.
+- **Image plus claire** : vignette, étalonnage et teinte du sol allégés, voile de sable et brouillard réduits de moitié.
+
 ## Nouveautés 2.33 — Un plan entièrement différent pour chaque carte, d'après la géographie réelle
 - **18 plans dessinés à la main** : chaque carte a sa côte, ses plans d'eau et ses lieux placés comme dans la réalité.
 - **Géographie réelle** : Chott el-Jérid au sud de Tozeur, lac de Bizerte, presqu'île de Mahdia (Cap Afrique), Djerba entourée par la mer avec Zarzis sur le continent, chenal entre les deux îles de Kerkennah, îlot de Kerkennah au large de Sfax, île de La Galite avec Galiton, lac de Tunis à Carthage, presqu'île du Cap Bon, côte nord de Tabarka sur les hautes terres, lagune de Korba, salines de Thyna, Grand Erg et oasis du Sud.
